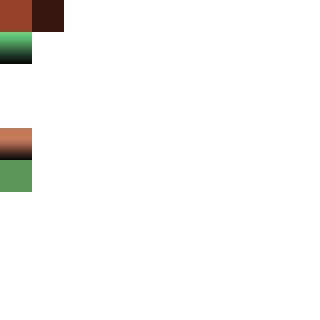
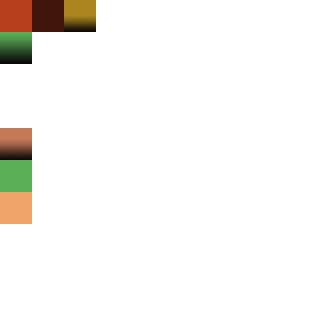
Banana tree added, added mud color on 7th line to trees png

Changed region(s): [[0.0, 0.5, 0.125, 0.7188], [0.0, 0.0, 0.125, 0.1562], [0.1875, 0.0, 0.3125, 0.125]]

diff --git a/Blender_elements/World/Trees/trees.md b/Blender_elements/World/Trees/trees.md
@@ -7,3 +7,4 @@ The UV PNG image texture is in the below order for trees and stuff related to it
 4th line - flowers
 5th line - rock
 6th line - nuts
+7th line - mud
